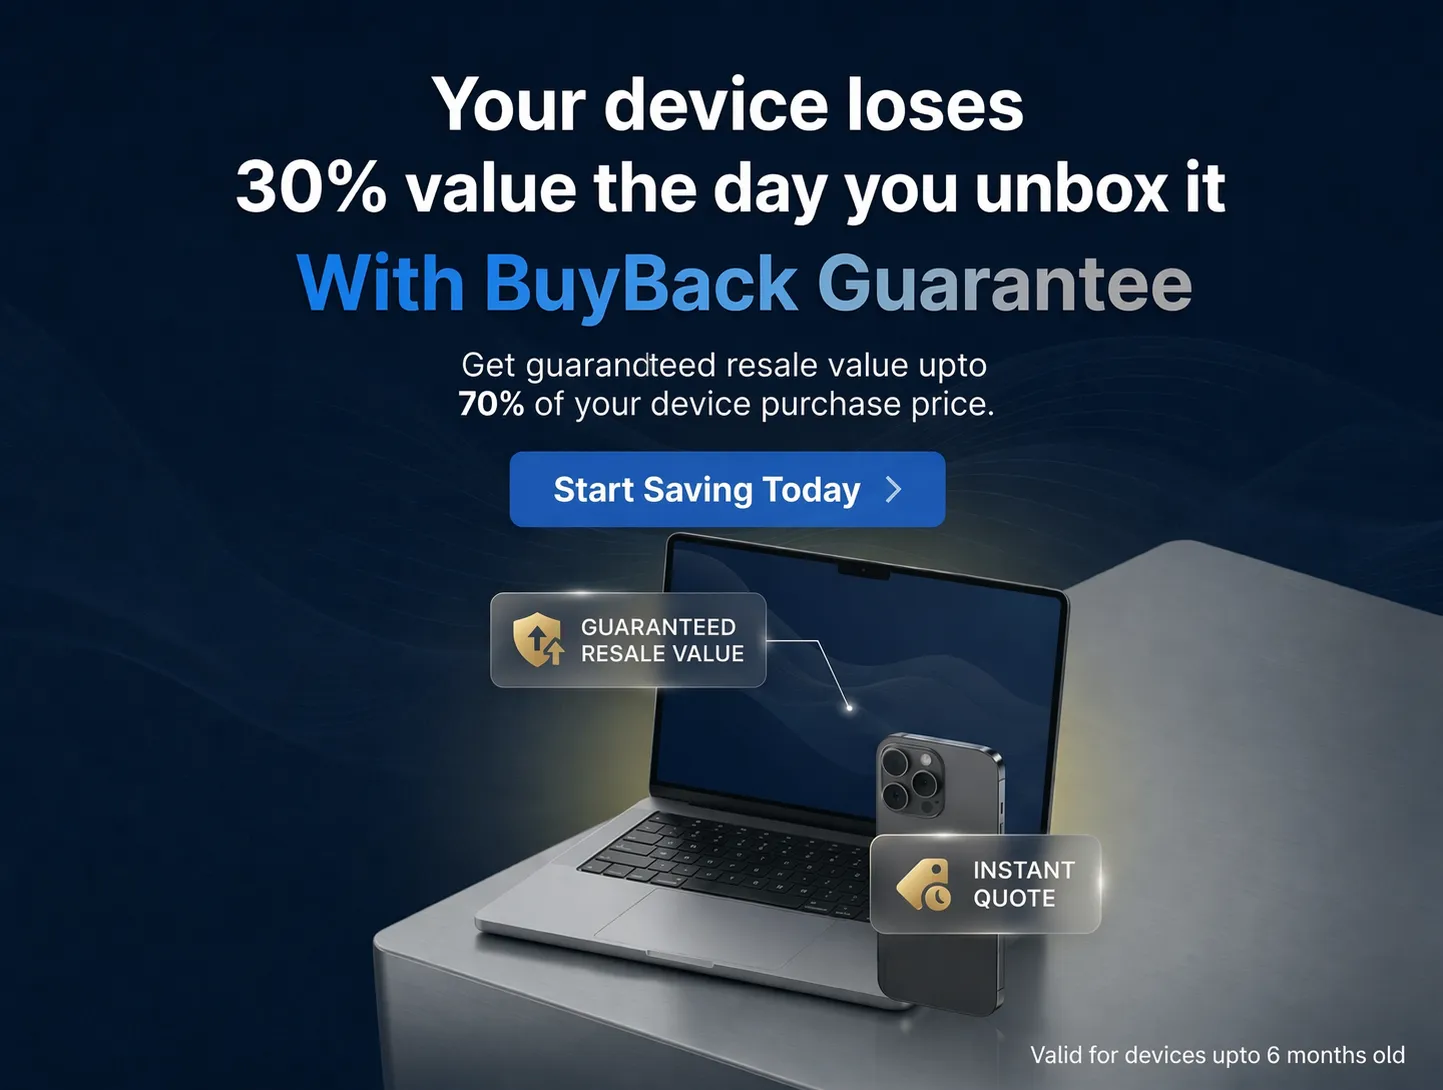
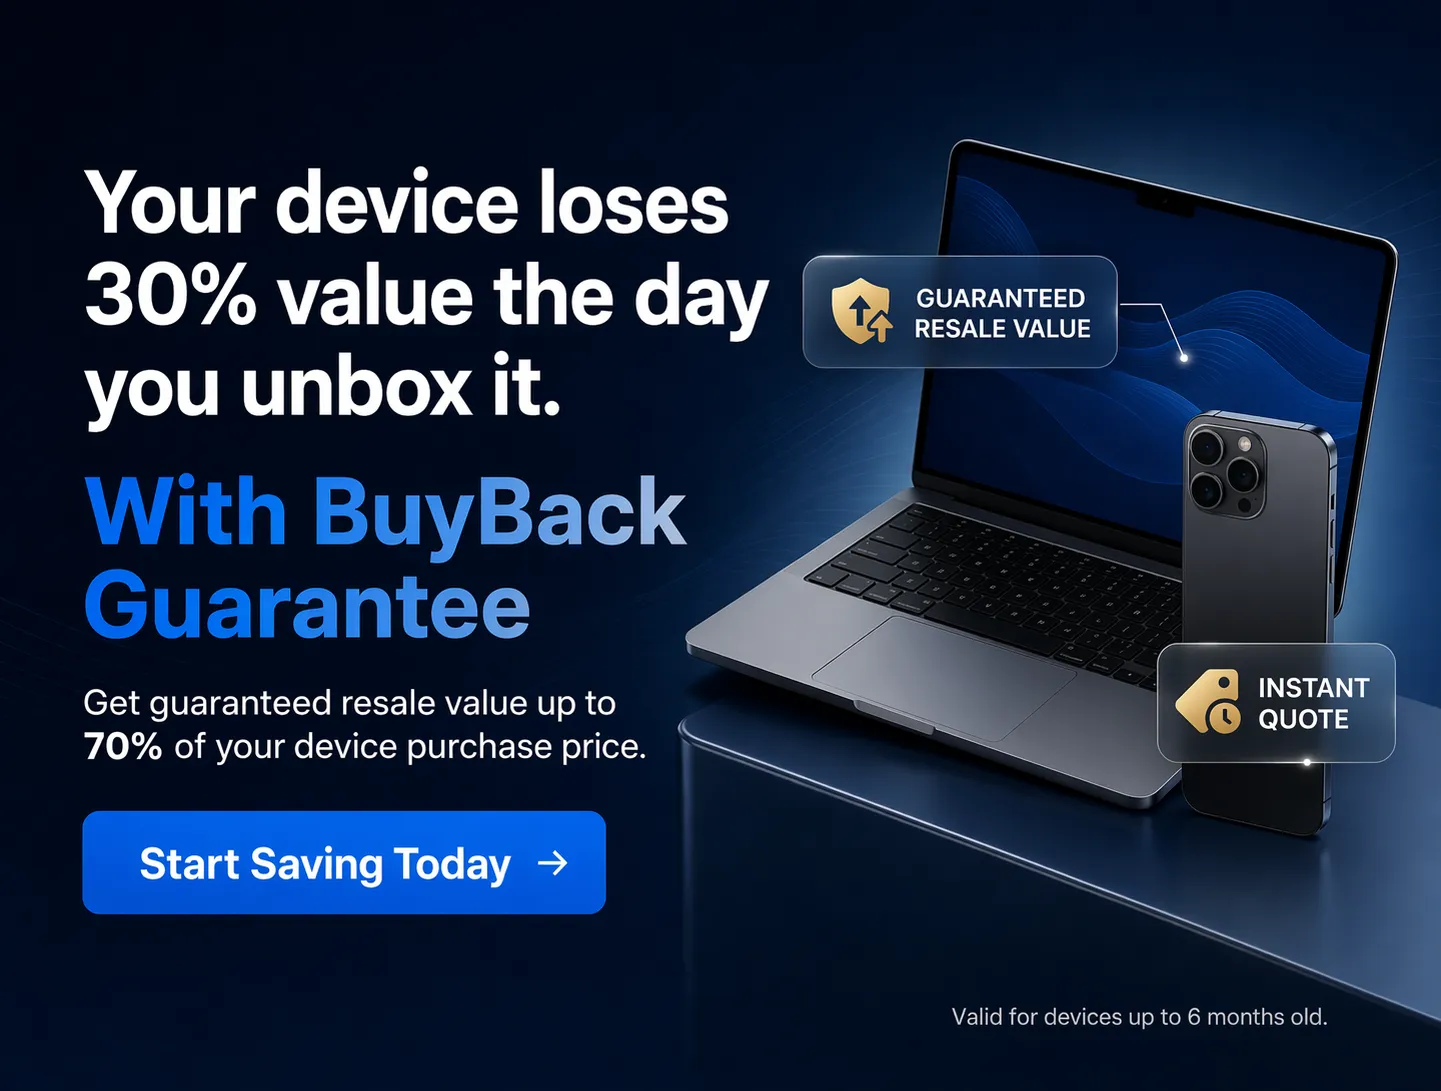
updated card

diff --git a/client/src/pages/home.tsx b/client/src/pages/home.tsx
@@ -593,7 +593,7 @@ export default function Home() {
                                 Guarantee
                               </h3>
                             </div>
-                            <div className="absolute right-0 sm:right-[25%] top-1/2 -translate-y-1/2 w-20 sm:w-32 opacity-90 pointer-events-none z-0">
+                            <div className="absolute left-[35%] sm:right-[30%] top-1/2 -translate-y-1/2 w-18 sm:w-32 opacity-90 pointer-events-none z-0">
                               <img 
                                 src={pricingLaptopHeaderBBG} 
                                 alt="Laptop BBG" 
@@ -765,7 +765,7 @@ export default function Home() {
                                 Protection
                               </h3>
                             </div>
-                            <div className="absolute right-0 sm:right-[25%] top-1/2 -translate-y-1/2 w-20 sm:w-32 opacity-90 pointer-events-none z-0">
+                            <div className="absolute left-[35%] sm:right-[30%] top-1/2 -translate-y-1/2 w-18 sm:w-32 opacity-90 pointer-events-none z-0">
                               <img 
                                 src={pricingLaptopHeaderExtend} 
                                 alt="Laptop Protection" 
@@ -888,7 +888,7 @@ export default function Home() {
                                 Guarantee
                               </h3>
                             </div>
-                            <div className="absolute right-0 sm:right-[25%] top-1/2 -translate-y-1/2 w-20 sm:w-32 opacity-90 pointer-events-none z-0">
+                            <div className="absolute left-[35%] sm:right-[30%] top-1/2 -translate-y-1/2 w-18 sm:w-32 opacity-90 pointer-events-none z-0">
                               <img 
                                 src={pricingMobileHeaderBBG} 
                                 alt="Mobile Guarantee" 
@@ -1060,7 +1060,7 @@ export default function Home() {
                                 Protection
                               </h3>
                             </div>
-                            <div className="absolute right-0 sm:right-[25%] top-1/2 -translate-y-1/2 w-20 sm:w-32 opacity-90 pointer-events-none z-0">
+                            <div className="absolute left-[35%] sm:right-[30%] top-1/2 -translate-y-1/2 w-18 sm:w-32 opacity-90 pointer-events-none z-0">
                               <img 
                                 src={pricingMobileHeaderExtend} 
                                 alt="Mobile Protection" 

diff --git a/client/src/pages/plans.tsx b/client/src/pages/plans.tsx
@@ -541,7 +541,7 @@ export default function Plans() {
                                 Guarantee
                               </h3>
                             </div>
-                            <div className="absolute right-0 sm:right-[25%] top-1/2 -translate-y-1/2 w-20 sm:w-32 opacity-90 pointer-events-none z-0">
+                            <div className="absolute left-[35%] sm:right-[30%] top-1/2 -translate-y-1/2 w-18 sm:w-32 opacity-90 pointer-events-none z-0">
                                <img 
                                  src={pricingLaptopHeaderBBG} 
                                  alt="Laptop BBG" 
@@ -722,7 +722,7 @@ export default function Plans() {
                                 Guarantee
                               </h3>
                             </div>
-                            <div className="absolute right-0 sm:right-[25%] top-1/2 -translate-y-1/2 w-20 sm:w-32 opacity-90 pointer-events-none z-0">
+                            <div className="absolute left-[35%] sm:right-[30%] top-1/2 -translate-y-1/2 w-18 sm:w-32 opacity-90 pointer-events-none z-0">
                                <img 
                                  src={pricingMobileHeaderBBG} 
                                  alt="Mobile BBG" 
@@ -899,7 +899,7 @@ export default function Plans() {
                                 Protection
                               </h3>
                             </div>
-                            <div className="absolute right-0 sm:right-[25%] top-1/2 -translate-y-1/2 w-20 sm:w-32 opacity-90 pointer-events-none z-0">
+                            <div className="absolute left-[35%] sm:right-[30%] top-1/2 -translate-y-1/2 w-18 sm:w-32 opacity-90 pointer-events-none z-0">
                                <img 
                                  src={pricingLaptopHeaderExtend} 
                                  alt="Laptop Extend" 
@@ -1017,7 +1017,7 @@ export default function Plans() {
                                 Protection
                               </h3>
                             </div>
-                            <div className="absolute right-0 sm:right-[25%] top-1/2 -translate-y-1/2 w-20 sm:w-32 opacity-90 pointer-events-none z-0">
+                            <div className="absolute left-[35%] sm:right-[30%] top-1/2 -translate-y-1/2 w-18 sm:w-32 opacity-90 pointer-events-none z-0">
                                <img 
                                  src={pricingMobileHeaderExtend} 
                                  alt="Mobile Extend" 